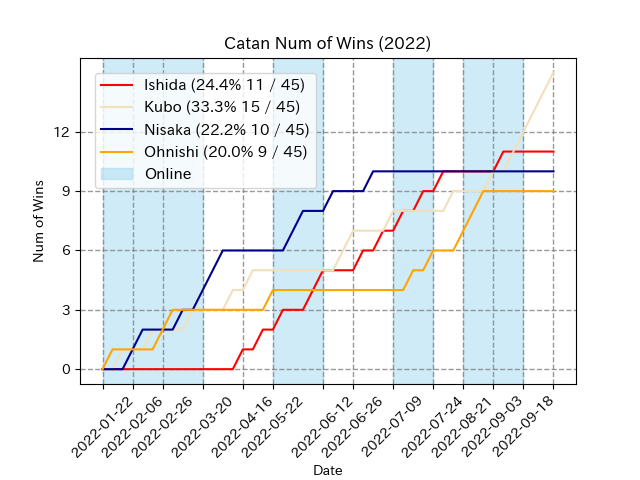
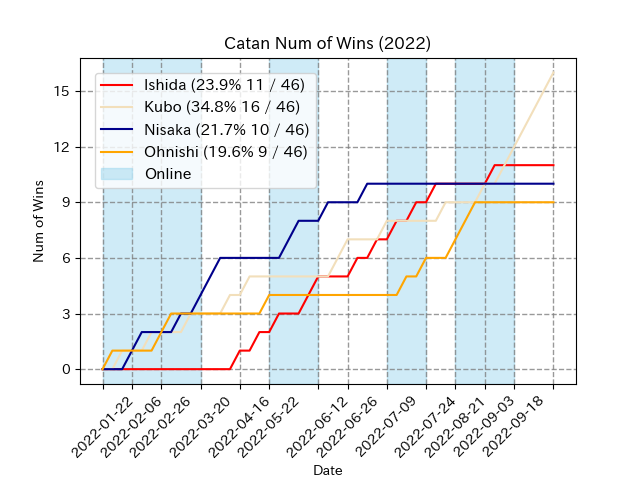
Update all record

diff --git a/record_2022.html b/record_2022.html
@@ -27,26 +27,26 @@
 <tr>
 <td align="right">1</td>
 <td align="left" class="Kubo">Kubo</td>
-<td align="right">15</td>
+<td align="right">16</td>
 <td align="right">30</td>
-<td align="right">45</td>
-<td align="right">.333</td>
+<td align="right">46</td>
+<td align="right">.348</td>
 <td align="left">-</td>
 <td align="left">-</td>
-<td align="left">9-20</td>
+<td align="left">10-21</td>
 <td align="left">6-25</td>
-<td align="right">6</td>
+<td align="right">7</td>
 </tr>
 <tr>
 <td align="right">2</td>
 <td align="left" class="Ishida">Ishida</td>
 <td align="right">11</td>
-<td align="right">34</td>
-<td align="right">45</td>
-<td align="right">.244</td>
-<td align="left">4</td>
-<td align="left">4</td>
-<td align="left">5-20</td>
+<td align="right">35</td>
+<td align="right">46</td>
+<td align="right">.239</td>
+<td align="left">5</td>
+<td align="left">5</td>
+<td align="left">5-21</td>
 <td align="left">6-25</td>
 <td align="right">1</td>
 </tr>
@@ -54,12 +54,12 @@
 <td align="right">3</td>
 <td align="left" class="Nisaka">Nisaka</td>
 <td align="right">10</td>
-<td align="right">35</td>
-<td align="right">45</td>
-<td align="right">.222</td>
+<td align="right">36</td>
+<td align="right">46</td>
+<td align="right">.217</td>
 <td align="left">1</td>
-<td align="left">5</td>
-<td align="left">4-20</td>
+<td align="left">6</td>
+<td align="left">4-21</td>
 <td align="left">6-25</td>
 <td align="right">0</td>
 </tr>
@@ -67,14 +67,14 @@
 <td align="right">4</td>
 <td align="left" class="Ohnishi">Ohnishi</td>
 <td align="right">9</td>
-<td align="right">36</td>
-<td align="right">45</td>
-<td align="right">.2</td>
+<td align="right">37</td>
+<td align="right">46</td>
+<td align="right">.196</td>
 <td align="left">1</td>
-<td align="left">6</td>
-<td align="left">2-20</td>
+<td align="left">7</td>
+<td align="left">2-21</td>
 <td align="left">7-25</td>
-<td align="right">3</td>
+<td align="right">2</td>
 </tr>
 </tbody>
 </table>
@@ -97,9 +97,9 @@
 <tr>
 <td align="right">1</td>
 <td align="left" class="Kubo">Kubo</td>
-<td align="right">5</td>
+<td align="right">6</td>
 <td align="left">2022-09-03_2</td>
-<td align="left">2022-09-18_3</td>
+<td align="left">2022-09-18_4</td>
 </tr>
 <tr>
 <td align="right">2</td>
@@ -138,9 +138,9 @@
 <tr>
 <td align="right">1</td>
 <td align="left" class="Nisaka">Nisaka</td>
-<td align="right">18</td>
+<td align="right">19</td>
 <td align="left">2022-06-26_3</td>
-<td align="left">2022-09-18_3</td>
+<td align="left">2022-09-18_4</td>
 </tr>
 <tr>
 <td align="right">2</td>
@@ -182,9 +182,9 @@
 <tr>
 <td align="right">1</td>
 <td align="left" class="Kubo">Kubo</td>
-<td align="right">3</td>
+<td align="right">4</td>
 <td align="left">2022-09-18_1</td>
-<td align="left">2022-09-18_3</td>
+<td align="left">2022-09-18_4</td>
 </tr>
 <tr>
 <td align="right">2</td>
@@ -222,24 +222,24 @@
 <tbody>
 <tr>
 <td align="right">1</td>
+<td align="left" class="Nisaka">Nisaka</td>
+<td align="right">9</td>
+<td align="left">2022-06-26_3</td>
+<td align="left">2022-09-18_4</td>
+</tr>
+<tr>
+<td align="right">1</td>
 <td align="left" class="Ohnishi">Ohnishi</td>
 <td align="right">9</td>
 <td align="left">2022-06-12_1</td>
 <td align="left">2022-07-24_2</td>
 </tr>
 <tr>
-<td align="right">2</td>
-<td align="left" class="Nisaka">Nisaka</td>
-<td align="right">8</td>
-<td align="left">2022-06-26_3</td>
-<td align="left">2022-09-18_3</td>
-</tr>
-<tr>
 <td align="right">3</td>
 <td align="left" class="Ishida">Ishida</td>
-<td align="right">5</td>
+<td align="right">6</td>
 <td align="left">2022-07-24_2</td>
-<td align="left">2022-09-18_3</td>
+<td align="left">2022-09-18_4</td>
 </tr>
 <tr>
 <td align="right">4</td>

diff --git a/record_all.html b/record_all.html
@@ -27,39 +27,39 @@
 <tr>
 <td align="right">1</td>
 <td align="left" class="Kubo">Kubo</td>
-<td align="right">22</td>
+<td align="right">23</td>
 <td align="right">45</td>
-<td align="right">67</td>
-<td align="right">.328</td>
+<td align="right">68</td>
+<td align="right">.338</td>
 <td align="left">-</td>
 <td align="left">-</td>
-<td align="left">16-42</td>
+<td align="left">17-43</td>
 <td align="left">6-25</td>
-<td align="right">6</td>
+<td align="right">7</td>
 </tr>
 <tr>
 <td align="right">2</td>
 <td align="left" class="Ohnishi">Ohnishi</td>
 <td align="right">17</td>
-<td align="right">50</td>
-<td align="right">67</td>
-<td align="right">.254</td>
-<td align="left">5</td>
-<td align="left">5</td>
-<td align="left">10-42</td>
+<td align="right">51</td>
+<td align="right">68</td>
+<td align="right">.25</td>
+<td align="left">6</td>
+<td align="left">6</td>
+<td align="left">10-43</td>
 <td align="left">7-25</td>
-<td align="right">3</td>
+<td align="right">2</td>
 </tr>
 <tr>
 <td align="right">3</td>
 <td align="left" class="Nisaka">Nisaka</td>
 <td align="right">14</td>
-<td align="right">53</td>
-<td align="right">67</td>
-<td align="right">.209</td>
+<td align="right">54</td>
+<td align="right">68</td>
+<td align="right">.206</td>
 <td align="left">3</td>
-<td align="left">8</td>
-<td align="left">8-42</td>
+<td align="left">9</td>
+<td align="left">8-43</td>
 <td align="left">6-25</td>
 <td align="right">0</td>
 </tr>
@@ -67,12 +67,12 @@
 <td align="right">3</td>
 <td align="left" class="Ishida">Ishida</td>
 <td align="right">14</td>
-<td align="right">53</td>
-<td align="right">67</td>
-<td align="right">.209</td>
+<td align="right">54</td>
+<td align="right">68</td>
+<td align="right">.206</td>
 <td align="left">0</td>
-<td align="left">8</td>
-<td align="left">8-42</td>
+<td align="left">9</td>
+<td align="left">8-43</td>
 <td align="left">6-25</td>
 <td align="right">1</td>
 </tr>
@@ -97,9 +97,9 @@
 <tr>
 <td align="right">1</td>
 <td align="left" class="Kubo">Kubo</td>
-<td align="right">5</td>
+<td align="right">6</td>
 <td align="left">2022-09-03_2</td>
-<td align="left">2022-09-18_3</td>
+<td align="left">2022-09-18_4</td>
 </tr>
 <tr>
 <td align="right">2</td>
@@ -138,9 +138,9 @@
 <tr>
 <td align="right">1</td>
 <td align="left" class="Nisaka">Nisaka</td>
-<td align="right">18</td>
+<td align="right">19</td>
 <td align="left">2022-06-26_3</td>
-<td align="left">2022-09-18_3</td>
+<td align="left">2022-09-18_4</td>
 </tr>
 <tr>
 <td align="right">2</td>
@@ -182,9 +182,9 @@
 <tr>
 <td align="right">1</td>
 <td align="left" class="Kubo">Kubo</td>
-<td align="right">3</td>
+<td align="right">4</td>
 <td align="left">2022-09-18_1</td>
-<td align="left">2022-09-18_3</td>
+<td align="left">2022-09-18_4</td>
 </tr>
 <tr>
 <td align="right">2</td>
@@ -237,9 +237,9 @@
 <tr>
 <td align="right">3</td>
 <td align="left" class="Nisaka">Nisaka</td>
-<td align="right">8</td>
+<td align="right">9</td>
 <td align="left">2022-06-26_3</td>
-<td align="left">2022-09-18_3</td>
+<td align="left">2022-09-18_4</td>
 </tr>
 <tr>
 <td align="right">4</td>

diff --git a/record_2022.md b/record_2022.md
@@ -1,40 +1,40 @@
 # カタン会リーグ成績（2022）
 ## 順位表
-|   順 | プレイヤー   |   勝 |   敗 |   試合 |    勝率 | 差   | 首位差   | 対面   | オンライン   |   直近10 |
-|----:|:--------|----:|----:|-----:|------:|:----|:------|:-----|:--------|-------:|
-|   1 | Kubo    |  15 |  30 |   45 | .333 | -   | -     | 9-20 | 6-25    |      6 |
-|   2 | Ishida  |  11 |  34 |   45 | .244 | 4   | 4     | 5-20 | 6-25    |      1 |
-|   3 | Nisaka  |  10 |  35 |   45 | .222 | 1   | 5     | 4-20 | 6-25    |      0 |
-|   4 | Ohnishi |   9 |  36 |   45 | .2   | 1   | 6     | 2-20 | 7-25    |      3 |
+|   順 | プレイヤー   |   勝 |   敗 |   試合 |    勝率 | 差   | 首位差   | 対面    | オンライン   |   直近10 |
+|----:|:--------|----:|----:|-----:|------:|:----|:------|:------|:--------|-------:|
+|   1 | Kubo    |  16 |  30 |   46 | .348 | -   | -     | 10-21 | 6-25    |      7 |
+|   2 | Ishida  |  11 |  35 |   46 | .239 | 5   | 5     | 5-21  | 6-25    |      1 |
+|   3 | Nisaka  |  10 |  36 |   46 | .217 | 1   | 6     | 4-21  | 6-25    |      0 |
+|   4 | Ohnishi |   9 |  37 |   46 | .196 | 1   | 7     | 2-21  | 7-25    |      2 |
 ## 勝ち数推移
 ![graph](./wnums_2022.png)
 ### 記録（対面+オンライン）
 |   順 | 連勝      |   試合数 | 開始           | 終了           |
 |----:|:--------|------:|:-------------|:-------------|
-|   1 | Kubo    |     5 | 2022-09-03_2 | 2022-09-18_3 |
+|   1 | Kubo    |     6 | 2022-09-03_2 | 2022-09-18_4 |
 |   2 | Ohnishi |     3 | 2022-07-24_3 | 2022-08-21_2 |
 |   2 | Nisaka  |     3 | 2022-02-26_4 | 2022-03-20_2 |
 |   4 | Ishida  |     2 | 2022-05-22_4 | 2022-05-22_5 |  
 
 |   順 | 連敗      |   試合数 | 開始           | 終了           |
 |----:|:--------|------:|:-------------|:-------------|
-|   1 | Nisaka  |    18 | 2022-06-26_3 | 2022-09-18_3 |
+|   1 | Nisaka  |    19 | 2022-06-26_3 | 2022-09-18_4 |
 |   2 | Ohnishi |    13 | 2022-05-22_1 | 2022-07-09_1 |
 |   2 | Ishida  |    13 | 2022-01-22_1 | 2022-03-20_3 |
 |   4 | Kubo    |     8 | 2022-04-16_2 | 2022-06-12_1 |
 ### 記録（対面）
 |   順 | 連勝      |   試合数 | 開始           | 終了           |
 |----:|:--------|------:|:-------------|:-------------|
-|   1 | Kubo    |     3 | 2022-09-18_1 | 2022-09-18_3 |
+|   1 | Kubo    |     4 | 2022-09-18_1 | 2022-09-18_4 |
 |   2 | Nisaka  |     2 | 2022-03-20_1 | 2022-03-20_2 |
 |   3 | Ishida  |     1 | 2022-03-20_4 | 2022-03-20_4 |
 |   3 | Ohnishi |     1 | 2022-04-16_3 | 2022-04-16_3 |  
 
 |   順 | 連敗      |   試合数 | 開始           | 終了           |
 |----:|:--------|------:|:-------------|:-------------|
+|   1 | Nisaka  |     9 | 2022-06-26_3 | 2022-09-18_4 |
 |   1 | Ohnishi |     9 | 2022-06-12_1 | 2022-07-24_2 |
-|   2 | Nisaka  |     8 | 2022-06-26_3 | 2022-09-18_3 |
-|   3 | Ishida  |     5 | 2022-07-24_2 | 2022-09-18_3 |
+|   3 | Ishida  |     6 | 2022-07-24_2 | 2022-09-18_4 |
 |   4 | Kubo    |     3 | 2022-04-16_2 | 2022-06-12_1 |
 ### 記録（オンライン）
 |   順 | 連勝      |   試合数 | 開始           | 終了           |

diff --git a/record_all.md b/record_all.md
@@ -2,30 +2,30 @@
 ## 順位表
 |   順 | プレイヤー   |   勝 |   敗 |   試合 |    勝率 | 差   | 首位差   | 対面    | オンライン   |   直近10 |
 |----:|:--------|----:|----:|-----:|------:|:----|:------|:------|:--------|-------:|
-|   1 | Kubo    |  22 |  45 |   67 | .328 | -   | -     | 16-42 | 6-25    |      6 |
-|   2 | Ohnishi |  17 |  50 |   67 | .254 | 5   | 5     | 10-42 | 7-25    |      3 |
-|   3 | Nisaka  |  14 |  53 |   67 | .209 | 3   | 8     | 8-42  | 6-25    |      0 |
-|   3 | Ishida  |  14 |  53 |   67 | .209 | 0   | 8     | 8-42  | 6-25    |      1 |
+|   1 | Kubo    |  23 |  45 |   68 | .338 | -   | -     | 17-43 | 6-25    |      7 |
+|   2 | Ohnishi |  17 |  51 |   68 | .25  | 6   | 6     | 10-43 | 7-25    |      2 |
+|   3 | Nisaka  |  14 |  54 |   68 | .206 | 3   | 9     | 8-43  | 6-25    |      0 |
+|   3 | Ishida  |  14 |  54 |   68 | .206 | 0   | 9     | 8-43  | 6-25    |      1 |
 ## 勝ち数推移
 ![graph](./wnums_all.png)
 ### 記録（対面+オンライン）
 |   順 | 連勝      |   試合数 | 開始           | 終了           |
 |----:|:--------|------:|:-------------|:-------------|
-|   1 | Kubo    |     5 | 2022-09-03_2 | 2022-09-18_3 |
+|   1 | Kubo    |     6 | 2022-09-03_2 | 2022-09-18_4 |
 |   2 | Ohnishi |     3 | 2022-07-24_3 | 2022-08-21_2 |
 |   2 | Nisaka  |     3 | 2022-02-26_4 | 2022-03-20_2 |
 |   4 | Ishida  |     2 | 2022-05-22_4 | 2022-05-22_5 |  
 
 |   順 | 連敗      |   試合数 | 開始           | 終了           |
 |----:|:--------|------:|:-------------|:-------------|
-|   1 | Nisaka  |    18 | 2022-06-26_3 | 2022-09-18_3 |
+|   1 | Nisaka  |    19 | 2022-06-26_3 | 2022-09-18_4 |
 |   2 | Ishida  |    16 | 2021-10-02_1 | 2021-12-19_1 |
 |   3 | Ohnishi |    13 | 2022-05-22_1 | 2022-07-09_1 |
 |   4 | Kubo    |     8 | 2022-04-16_2 | 2022-06-12_1 |
 ### 記録（対面）
 |   順 | 連勝      |   試合数 | 開始           | 終了           |
 |----:|:--------|------:|:-------------|:-------------|
-|   1 | Kubo    |     3 | 2022-09-18_1 | 2022-09-18_3 |
+|   1 | Kubo    |     4 | 2022-09-18_1 | 2022-09-18_4 |
 |   2 | Ohnishi |     2 | 2021-12-04_3 | 2021-12-04_4 |
 |   2 | Nisaka  |     2 | 2022-03-20_1 | 2022-03-20_2 |
 |   4 | Ishida  |     1 | 2021-09-19_3 | 2021-09-19_3 |  
@@ -34,7 +34,7 @@
 |----:|:--------|------:|:-------------|:-------------|
 |   1 | Ishida  |    16 | 2021-10-02_1 | 2021-12-19_1 |
 |   2 | Ohnishi |    10 | 2021-12-19_1 | 2022-04-16_2 |
-|   3 | Nisaka  |     8 | 2022-06-26_3 | 2022-09-18_3 |
+|   3 | Nisaka  |     9 | 2022-06-26_3 | 2022-09-18_4 |
 |   4 | Kubo    |     5 | 2021-12-19_2 | 2022-03-20_2 |
 ### 記録（オンライン）
 |   順 | 連勝      |   試合数 | 開始           | 終了           |
